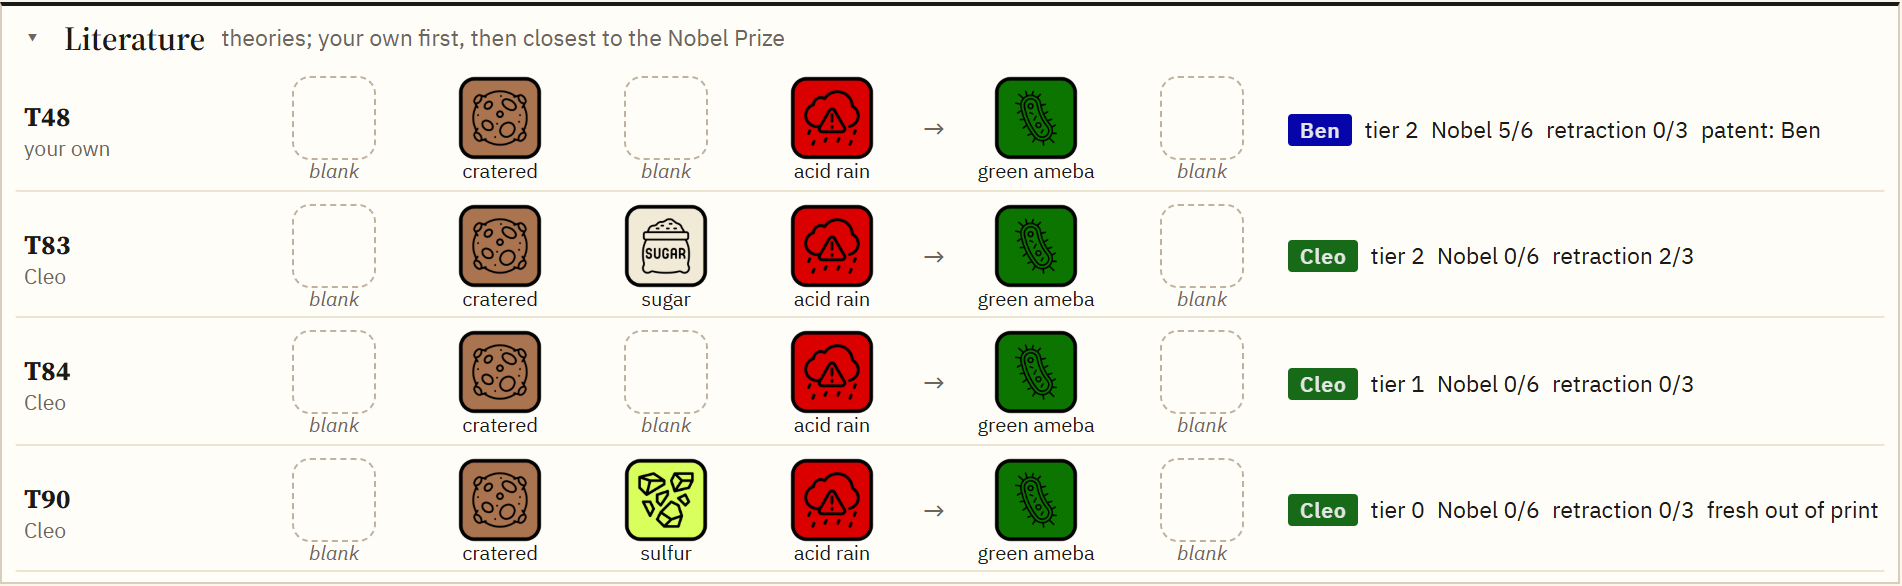
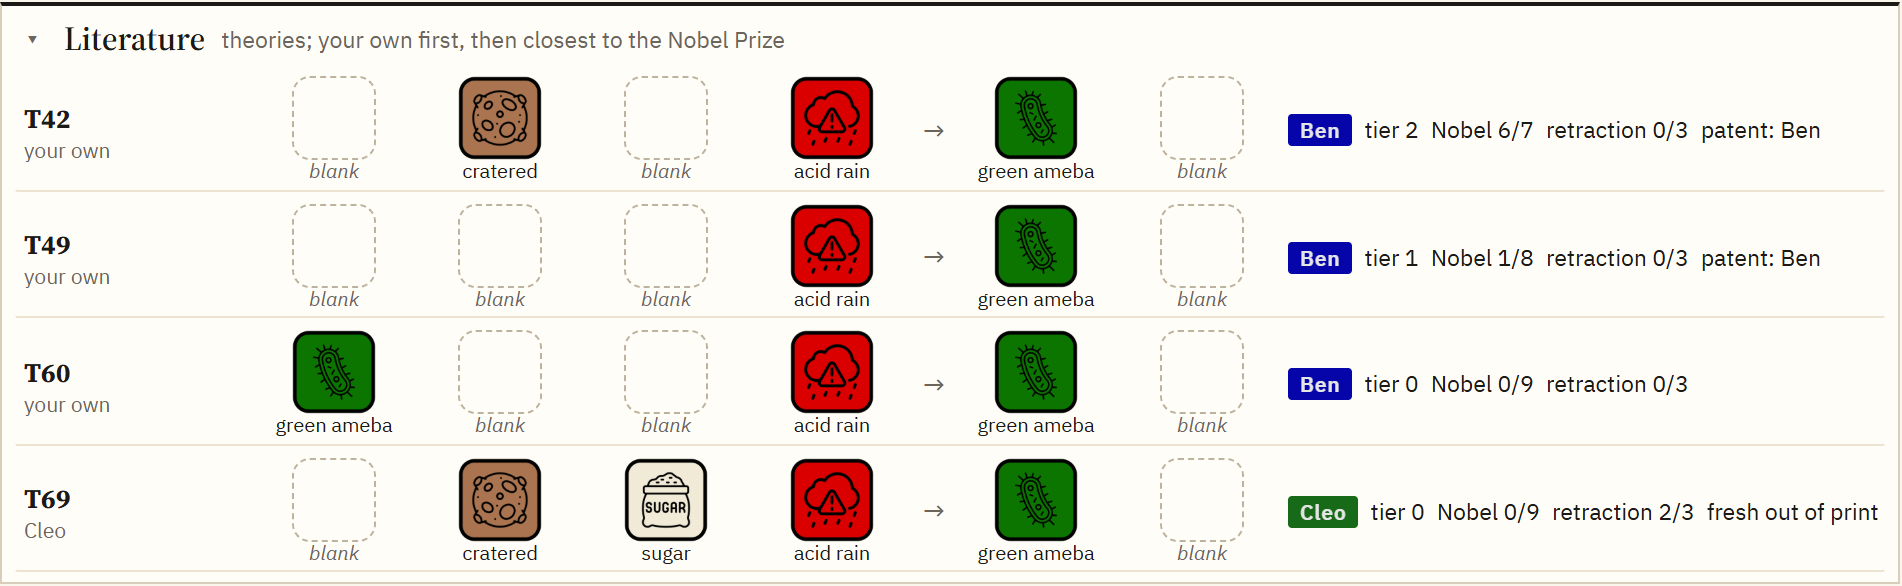
Rulebook figures retaken for the new screens and rules
The near-Nobel scene uses the theory's own threshold (nobel_condition minus its tier).

diff --git a/nv_rulebook/illustrations.py b/nv_rulebook/illustrations.py
@@ -198,7 +198,7 @@ def near_nobel_and_retraction(state: GameState, seat: int) -> None:
     """One theory a step from the Nobel Prize, another a step from retraction."""
     theories = sorted((p for p in state.published if p.idea.kind == "theory"), key=lambda p: (-p.nobel, p.id))
     leader = theories[0]
-    leader.nobel = state.settings.nobel_condition - 1
+    leader.nobel = state.settings.nobel_threshold(leader.tier) - 1  # Nobel Prize: the threshold depends on the tier
     other = next((p for p in theories[1:] if p.author != leader.author), theories[1])
     other.nobel, other.retraction = 0, state.settings.retraction_threshold - 1
 

diff --git a/tests/core/test_rulebook_illustrations.py b/tests/core/test_rulebook_illustrations.py
@@ -40,5 +40,5 @@ def test_the_bot_game_has_every_situation_and_the_adjustments_hold():
     state = state.clone()
     near_nobel_and_retraction(state, seat)
     s = state.settings
-    assert any(p.nobel == s.nobel_condition - 1 for p in state.published)
+    assert any(p.nobel == s.nobel_threshold(p.tier) - 1 for p in state.published)
     assert any(p.retraction == s.retraction_threshold - 1 for p in state.published)
